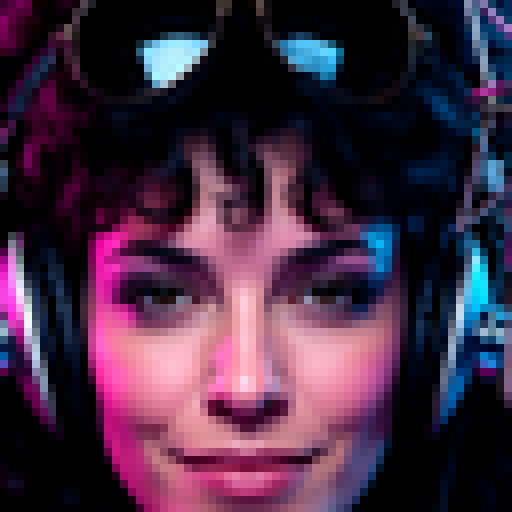
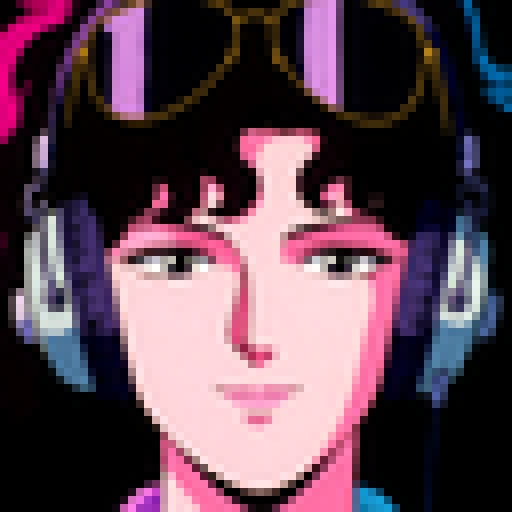
feat(avatar7): drawn portraits for Nova, the Commis and the Adjutant
Realistic faces turned to mush at 64 pixels; cel, cartoon and comic ink
versions on black keep their features and let the scene through.

Claude-Session: https://claude.ai/code/session_0193Ro3qpTkbCYGhBZCXXHUX

diff --git a/avatar7/README.md b/avatar7/README.md
@@ -269,6 +269,8 @@ reduction is contrast and a large central subject, so the prompt asks for:
 - a frontal, symmetric face (or a single eye) centered and filling the frame;
 - a pure black or dark background;
 - high contrast and one dominant glow color.
+- a drawn style (cel, cartoon, comic ink) over a realistic one: at 64 pixels
+  outlines and flat colors survive, skin gradients turn to mush.
 
 The shipped portraits (model `krea2_turbo_fp8_scaled.safetensors`, seed
 random unless given; the actual seed is in the PNG metadata). Morte and
@@ -284,13 +286,13 @@ renders from a prompt:
 | duck7 | none, seed 11 | cartoon mascot portrait of a cheeky mallard duck head facing the viewer, 1990s animated series style, bold thick black outlines, flat cel shading, big round expressive white eyes with black pupils and a mischievous half-lidded look, wide orange-yellow bill with a smug grin, glossy emerald green head, small tilted golden crown, symmetric, head centered and filling the frame, pure black background, high contrast, vivid saturated colors |
 | pod042 | none, seed 42 | frontal symmetric view of a small floating support robot pod, boxy grey metal casing with rounded edges, a single horizontal glowing slit eye in the center, two small mechanical arms folded at its sides, minimalist post-apocalyptic android design, centered and filling the frame, pure black background, high contrast, soft white and pale yellow glow, 2017 video game concept art |
 | kaneda | none, seed 1988 | frontal portrait of a cocky teenage biker gang leader, spiky brown hair, smirking confidently straight at the viewer, red leather biker jacket with a white pill capsule emblem on the chest, neon red city lights behind, 1988 japanese anime cel animation style, bold outlines, face centered and filling the frame, dark background, high contrast, saturated red |
-| commis | none, seed 1769 | frontal symmetric portrait of an 18th century East India Company clerk, a weathered ship log keeper with a powdered wig and round brass spectacles, quill pen behind the ear, teak and rattan background with brass navigation instruments and a faded nautical chart, warm candlelight, face centered and filling the frame, dark surroundings, high contrast, oil painting in the style of a colonial era portrait |
+| commis | none, seed 1770 | frontal symmetric portrait of a weary 18th century ship log clerk, powdered wig, round brass spectacles, quill pen behind the ear, 1990s animated series cartoon style, bold thick black outlines, flat cel shading, warm candlelight colors, face centered and filling the frame, pure black background, high contrast |
 | fox | none, seed 1994 | frontal portrait of a cocky anthropomorphic fox fighter pilot, orange and white fur, sharp green eyes looking straight at the viewer with a confident smirk, a radio headset with a small microphone over the muzzle, green flight jacket collar with a white scarf, starfield and a blue cockpit glow behind, 1990s video game box art style, bold outlines, head centered and filling the frame, dark background, high contrast |
-| adjutant | none, seed 1999 | frontal symmetric portrait of a pale female android face, bald, porcelain white skin with thin seams, blank glowing pale blue eyes staring straight ahead, thick black cables and tubes plugged into the skull and neck, holographic blue scanlines and monitor glow, military command interface, face centered and filling the frame, pure black background, high contrast, cold cyan blue light, 1998 science fiction video game cinematic |
+| adjutant | none, seed 1999 | frontal symmetric portrait of a military android adjutant, bald pale female face with panel seams, glowing pale blue eyes, thick cables plugged into the skull, 1990s science fiction comic book style, heavy ink outlines, flat colors, cold cyan monitor light, face centered and filling the frame, pure black background, high contrast |
 | morte | edit, seed 2009 | Boogu Edit (`mode: edit`) of a Planescape: Torment still of Morte: "keep this exact floating skull with its bulging eyes and open toothy jaw, turn it to face the viewer straight on, centered and filling the frame, replace the whole background with pure black, keep the painted 1999 game art style", then a second edit of that (seed 2009) setting it in the dim Planescape Mortuary: stone vaults, purple and green planar haze, a distant candle |
 | pda | none, seed 2018 | frontal symmetric view of a rugged handheld survival PDA device floating in dark deep ocean water, a round glowing screen in the center showing a single luminous cyan signal ring like an eye, concentric rings, small status lights on a scratched white and orange casing, faint bubbles and bioluminescent particles around, device centered and filling the frame, pure black abyssal background, high contrast, cold cyan and teal glow, 2018 underwater survival video game interface |
 | lain | `libre`, seed 1998 | frontal portrait of a quiet teenage girl with a short brown bob haircut, one long lock of hair on her left side held by a small X shaped clip, large pale grey eyes staring straight at the viewer, pale skin lit by the faint glow of an old CRT monitor, tangled cables and telephone wires blurred in the darkness behind, late 1990s anime cel animation style, melancholic and distant, face centered and filling the frame, black background, high contrast, cold blue glow with a touch of red |
-| nova | `libre`, seed 1986 | frontal portrait of a late-night radio DJ woman in 1986 Miami, voluminous dark curly hair, large retro headphones around her neck, aviator sunglasses pushed up on her head, calm half-lidded confident eyes looking straight at the viewer, a faint knowing smile, a chrome studio microphone at the edge of the frame, magenta and cyan neon light on her face, synthwave airbrush art style, face centered and filling the frame, dark background, high contrast |
+| nova | `libre`, seed 1986 | frontal portrait of a late-night radio DJ woman, 1980s japanese anime cel animation style, bold black outlines, flat cel shading, voluminous dark curly hair, retro headphones around her neck, aviator sunglasses pushed up on her head, calm half-lidded confident eyes looking straight at the viewer, a faint knowing smile, magenta and cyan neon rim light, face centered and filling the frame, pure black background, high contrast, saturated colors |
 | tachikoma | `libre`, seed 2002 | frontal view of a small cobalt blue spider-like AI think-tank robot facing the viewer, a round bulbous abdomen pod behind, three large round glowing optical sensors clustered on its front like curious eyes, two small manipulator arms, glossy rounded armor, childlike curious pose, late 1990s anime mecha cel style, robot centered and filling the frame, black background, high contrast, cyan and white glow |
 
 A render takes about 25 to 50 s on Krea 2 turbo.
@@ -314,15 +316,15 @@ mush, crop tighter or re-render with more contrast.
 | duck7 | none (full frame) |
 | pod042 | `64 20 960 916` |
 | kaneda | `180 40 860 720` |
-| commis | `192 100 832 740` |
+| commis | `64 40 960 936` |
 | glados | `70 105 430 465` (on the 504x480 edit) |
 | fox | `112 60 912 860` |
-| adjutant | `92 10 932 850` |
+| adjutant | `80 20 944 884` |
 | morte | `-20 10 236 266` (on the 216x360 edit; outside the image is black) |
 | pda | `130 120 890 880` |
 | lain | `140 60 880 800` |
 | tachikoma | `112 160 912 960` |
-| nova | `160 50 880 770` |
+| nova | `80 40 944 904` |
 
 ### 2a. Scene (optional)
 
